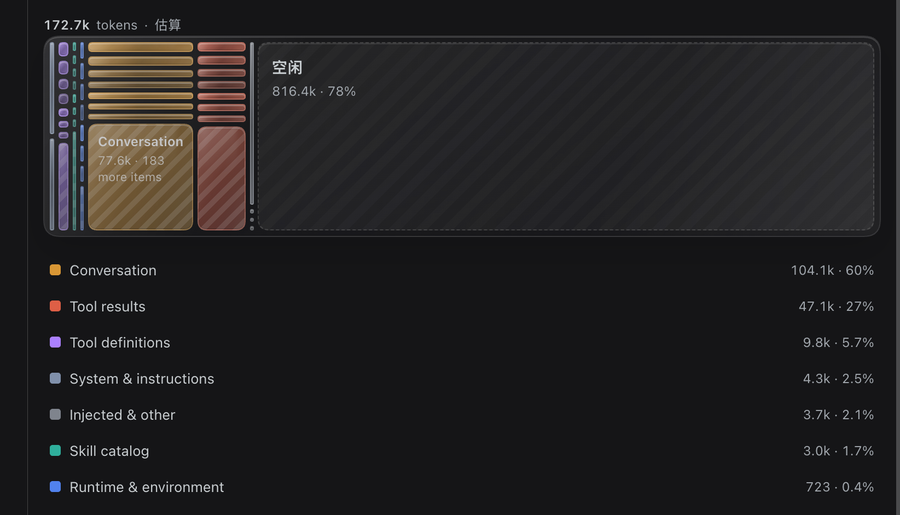
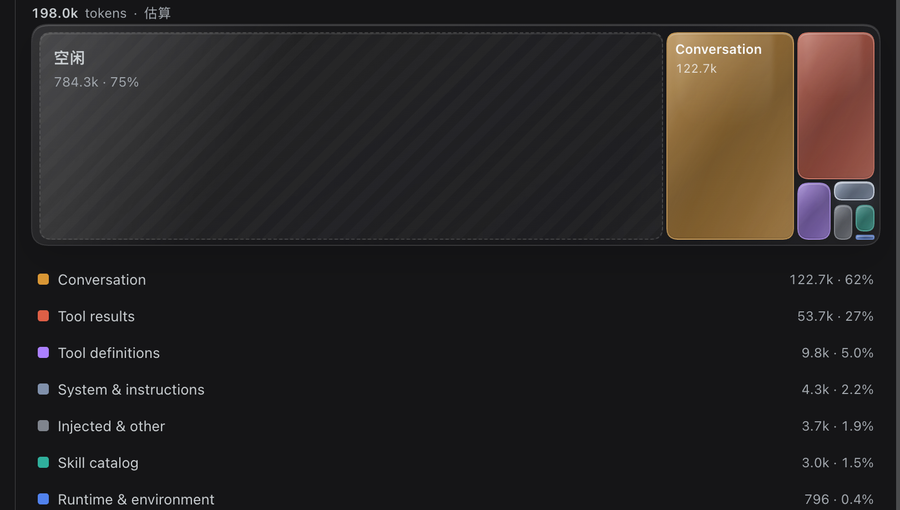
feat: render categories as a squarified treemap

diff --git a/client.js b/client.js
@@ -4,7 +4,7 @@ window.__ModuleLoader__.load({
     const React = require('react');
 
     const h = React.createElement;
-    const { Fragment, useCallback, useEffect, useMemo, useRef, useState } = React;
+    const { Fragment, useCallback, useEffect, useLayoutEffect, useMemo, useRef, useState } = React;
 
     const NS = 'context-mekko';
     const PACKAGE = 'dsh-context-mekko';
@@ -145,27 +145,26 @@ window.__ModuleLoader__.load({
 .cmk-ring{flex:none;display:inline-flex;align-items:center;justify-content:center}
 .cmk-panelBody{flex:1;min-height:0;overflow:auto;padding:12px 14px 22px}
 .cmk-foot{flex:none;padding:9px 16px 11px;border-top:1px solid var(--dsw-alias-border-l3,rgba(128,128,128,.16));color:var(--dsw-alias-label-tertiary,#888);font-size:11px;line-height:16px}
-.cmk-chart{position:relative;isolation:isolate;display:flex;gap:4px;height:184px;width:100%;align-items:stretch;padding:5px;border-radius:18px;overflow:hidden;background:linear-gradient(145deg,color-mix(in srgb,var(--dsw-alias-bg-base,#fff) 36%,transparent),color-mix(in srgb,var(--dsw-alias-bg-base,#fff) 12%,transparent)),rgba(128,128,128,.045);border:1px solid rgba(255,255,255,.13);box-shadow:inset 0 1px 0 rgba(255,255,255,.16),inset 0 -1px 0 rgba(0,0,0,.08),0 12px 30px rgba(0,0,0,.12);backdrop-filter:blur(22px) saturate(150%);-webkit-backdrop-filter:blur(22px) saturate(150%)}
+.cmk-chart{position:relative;isolation:isolate;display:block;height:200px;width:100%;padding:5px;border-radius:18px;overflow:hidden;background:linear-gradient(145deg,color-mix(in srgb,var(--dsw-alias-bg-base,#fff) 36%,transparent),color-mix(in srgb,var(--dsw-alias-bg-base,#fff) 12%,transparent)),rgba(128,128,128,.045);border:1px solid rgba(255,255,255,.13);box-shadow:inset 0 1px 0 rgba(255,255,255,.16),inset 0 -1px 0 rgba(0,0,0,.08),0 12px 30px rgba(0,0,0,.12);backdrop-filter:blur(22px) saturate(150%);-webkit-backdrop-filter:blur(22px) saturate(150%)}
 .cmk-chart::before{content:"";position:absolute;inset:0;z-index:0;pointer-events:none;background:linear-gradient(120deg,rgba(255,255,255,.12),transparent 28%,transparent 68%,rgba(255,255,255,.045))}
-.cmk-col{position:relative;z-index:1;display:flex;flex-direction:column;gap:4px;min-width:3px;overflow:visible;border-radius:11px;background:transparent;transition:flex-grow .48s cubic-bezier(.22,1,.36,1)}
-.cmk-cell{--cmk-cell-color:#8a8f98;container-type:size;flex:1 1 0;min-height:2px;padding:0;margin:0;border:1px solid color-mix(in srgb,var(--cmk-cell-color) 30%,rgba(255,255,255,.26));border-radius:10px;cursor:pointer;position:relative;overflow:hidden;isolation:isolate;background:linear-gradient(135deg,color-mix(in srgb,var(--cmk-cell-color) 68%,rgba(255,255,255,.18)) 0%,color-mix(in srgb,var(--cmk-cell-color) 46%,transparent) 52%,color-mix(in srgb,var(--cmk-cell-color) 58%,transparent) 100%);backdrop-filter:blur(14px) saturate(170%);-webkit-backdrop-filter:blur(14px) saturate(170%);box-shadow:inset 0 1px 0 rgba(255,255,255,.28),inset 0 -1px 0 rgba(0,0,0,.10),0 3px 10px rgba(0,0,0,.10);transition:flex-grow .48s cubic-bezier(.22,1,.36,1),transform .18s ease,filter .18s ease,box-shadow .18s ease,opacity .18s ease}
-.cmk-cell::before{content:"";position:absolute;inset:0;z-index:0;border-radius:inherit;pointer-events:none;background:linear-gradient(112deg,rgba(255,255,255,.38) 0%,rgba(255,255,255,.09) 22%,transparent 46%,rgba(255,255,255,.04) 72%,rgba(255,255,255,.14) 100%);opacity:.72;mix-blend-mode:screen}
-.cmk-cell::after{content:"";position:absolute;left:7%;right:16%;top:0;height:46%;border-radius:0 0 50% 50%;pointer-events:none;background:linear-gradient(180deg,rgba(255,255,255,.22),transparent);filter:blur(2px);opacity:.55}
-.cmk-cell:hover{filter:brightness(1.10) saturate(1.12);transform:translateY(-1px);outline:1px solid rgba(255,255,255,.38);outline-offset:-1px;z-index:2;box-shadow:inset 0 1px 0 rgba(255,255,255,.40),inset 0 -1px 0 rgba(0,0,0,.10),0 6px 16px color-mix(in srgb,var(--cmk-cell-color) 24%,rgba(0,0,0,.16))}
-.cmk-cell:active{transform:translateY(0) scale(.995)}
-.cmk-cell:focus-visible{outline:2px solid var(--dsw-focus-ring-color,#4c8bf5);outline-offset:-2px;z-index:3}
-.cmk-cellOther{opacity:.76;background-image:repeating-linear-gradient(135deg,rgba(255,255,255,.16) 0 5px,transparent 5px 11px),linear-gradient(135deg,color-mix(in srgb,var(--cmk-cell-color) 58%,rgba(255,255,255,.16)) 0%,color-mix(in srgb,var(--cmk-cell-color) 38%,transparent) 100%)}
-.cmk-cellLabel{position:absolute;inset:7px 8px;z-index:2;display:none;flex-direction:column;align-items:flex-start;gap:2px;pointer-events:none;text-align:left;color:var(--dsw-alias-label-primary,#111);font:inherit}
-.cmk-cellLabelTitle{max-width:100%;overflow:hidden;text-overflow:ellipsis;white-space:nowrap;font-size:12px;line-height:16px;font-weight:600}
-.cmk-cellLabelMeta{font-size:11px;line-height:15px;opacity:.78;font-variant-numeric:tabular-nums}
-@container (min-width:92px) and (min-height:46px){.cmk-cellLabel{display:flex}}
-.cmk-free{container-type:size;flex:1 1 0;min-width:3px;min-height:0;position:relative;overflow:hidden;border:1px dashed rgba(128,128,128,.38);border-radius:12px;background:repeating-linear-gradient(135deg,rgba(128,128,128,.055) 0 8px,transparent 8px 17px),linear-gradient(145deg,rgba(255,255,255,.045),rgba(128,128,128,.025));box-shadow:inset 0 1px 0 rgba(255,255,255,.10);backdrop-filter:blur(12px) saturate(120%);-webkit-backdrop-filter:blur(12px) saturate(120%);color:var(--dsw-alias-label-tertiary,#888);cursor:default;transition:flex-grow .48s cubic-bezier(.22,1,.36,1)}
+.cmk-tile{--cmk-tile-color:#8a8f98;container-type:size;position:absolute;z-index:1;padding:0;margin:0;border:1px solid color-mix(in srgb,var(--cmk-tile-color) 30%,rgba(255,255,255,.26));border-radius:12px;cursor:pointer;overflow:hidden;isolation:isolate;background:linear-gradient(135deg,color-mix(in srgb,var(--cmk-tile-color) 68%,rgba(255,255,255,.18)) 0%,color-mix(in srgb,var(--cmk-tile-color) 46%,transparent) 52%,color-mix(in srgb,var(--cmk-tile-color) 58%,transparent) 100%);backdrop-filter:blur(14px) saturate(170%);-webkit-backdrop-filter:blur(14px) saturate(170%);box-shadow:inset 0 1px 0 rgba(255,255,255,.28),inset 0 -1px 0 rgba(0,0,0,.10),0 3px 10px rgba(0,0,0,.10);transition:left .5s cubic-bezier(.22,1,.36,1),top .5s cubic-bezier(.22,1,.36,1),width .5s cubic-bezier(.22,1,.36,1),height .5s cubic-bezier(.22,1,.36,1),transform .18s ease,filter .18s ease,box-shadow .18s ease}
+.cmk-tile::before{content:"";position:absolute;inset:0;z-index:0;border-radius:inherit;pointer-events:none;background:linear-gradient(112deg,rgba(255,255,255,.38) 0%,rgba(255,255,255,.09) 22%,transparent 46%,rgba(255,255,255,.04) 72%,rgba(255,255,255,.14) 100%);opacity:.72;mix-blend-mode:screen}
+.cmk-tile::after{content:"";position:absolute;left:7%;right:16%;top:0;height:46%;border-radius:0 0 50% 50%;pointer-events:none;background:linear-gradient(180deg,rgba(255,255,255,.22),transparent);filter:blur(2px);opacity:.55}
+.cmk-tile:hover{filter:brightness(1.10) saturate(1.12);transform:translateY(-1px);outline:1px solid rgba(255,255,255,.38);outline-offset:-1px;z-index:2;box-shadow:inset 0 1px 0 rgba(255,255,255,.40),inset 0 -1px 0 rgba(0,0,0,.10),0 6px 16px color-mix(in srgb,var(--cmk-tile-color) 24%,rgba(0,0,0,.16))}
+.cmk-tile:active{transform:translateY(0) scale(.995)}
+.cmk-tile:focus-visible{outline:2px solid var(--dsw-focus-ring-color,#4c8bf5);outline-offset:-2px;z-index:3}
+.cmk-tileLabel{position:absolute;inset:6px 7px;z-index:2;display:none;flex-direction:column;align-items:flex-start;gap:2px;pointer-events:none;text-align:left;color:var(--dsw-alias-label-primary,#111);font:inherit}
+.cmk-tileLabelTitle{max-width:100%;overflow:hidden;text-overflow:ellipsis;white-space:nowrap;font-size:12px;line-height:16px;font-weight:600}
+.cmk-tileLabelMeta{display:none;font-size:11px;line-height:15px;opacity:.78;font-variant-numeric:tabular-nums}
+@container (min-width:72px) and (min-height:30px){.cmk-tileLabel{display:flex}}
+@container (min-width:72px) and (min-height:48px){.cmk-tileLabelMeta{display:block}}
+.cmk-free{container-type:size;position:absolute;z-index:1;overflow:hidden;border:1px dashed rgba(128,128,128,.38);border-radius:12px;background:repeating-linear-gradient(135deg,rgba(128,128,128,.055) 0 8px,transparent 8px 17px),linear-gradient(145deg,rgba(255,255,255,.045),rgba(128,128,128,.025));box-shadow:inset 0 1px 0 rgba(255,255,255,.10);backdrop-filter:blur(12px) saturate(120%);-webkit-backdrop-filter:blur(12px) saturate(120%);color:var(--dsw-alias-label-tertiary,#888);cursor:default;transition:left .5s cubic-bezier(.22,1,.36,1),top .5s cubic-bezier(.22,1,.36,1),width .5s cubic-bezier(.22,1,.36,1),height .5s cubic-bezier(.22,1,.36,1)}
 .cmk-freeLabel{position:absolute;inset:12px;display:none;flex-direction:column;align-items:flex-start;gap:3px;pointer-events:none;text-align:left}
 .cmk-freeTitle{font-size:14px;line-height:20px;font-weight:600;color:var(--dsw-alias-label-secondary,#555)}
 .cmk-freeMeta{font-size:12px;line-height:17px;font-variant-numeric:tabular-nums;color:var(--dsw-alias-label-tertiary,#888)}
 @container (min-width:100px) and (min-height:64px){.cmk-freeLabel{display:flex}}
-@media (prefers-reduced-motion:reduce){.cmk-col,.cmk-cell,.cmk-free{transition:none}.cmk-cell:hover{transform:none}}
-@supports not ((backdrop-filter:blur(1px)) or (-webkit-backdrop-filter:blur(1px))){.cmk-chart{background:var(--dsw-alias-interactive-bg-hover,rgba(128,128,128,.10))}.cmk-cell{background:color-mix(in srgb,var(--cmk-cell-color) 72%,var(--dsw-alias-bg-base,#fff))}}
+@media (prefers-reduced-motion:reduce){.cmk-tile,.cmk-free{transition:none}.cmk-tile:hover{transform:none}}
+@supports not ((backdrop-filter:blur(1px)) or (-webkit-backdrop-filter:blur(1px))){.cmk-chart{background:var(--dsw-alias-interactive-bg-hover,rgba(128,128,128,.10))}.cmk-tile{background:color-mix(in srgb,var(--cmk-tile-color) 72%,var(--dsw-alias-bg-base,#fff))}}
 .cmk-legend{display:flex;flex-direction:column;gap:1px;margin-top:14px}
 .cmk-legendRow{display:flex;align-items:center;gap:8px;width:100%;padding:6px 6px;border:0;border-radius:7px;background:transparent;color:inherit;font:inherit;text-align:left;cursor:pointer}
 .cmk-legendRow:hover{background:var(--dsw-alias-interactive-bg-hover,rgba(128,128,128,.08))}
@@ -407,113 +406,188 @@ window.__ModuleLoader__.load({
       );
     }
 
-    function pickLeaves(category) {
-      const sorted = [...category.children].sort((left, right) => right.tokens - left.tokens);
-      const limit = 8;
-      if (sorted.length <= limit) return sorted;
-      const head = sorted.slice(0, limit - 1);
-      const rest = sorted.slice(limit - 1);
-      const tokens = rest.reduce((total, child) => total + child.tokens, 0);
-      return [
-        ...head,
-        {
-          id: `${category.key}:other`,
-          label: 'other',
-          tokens,
-          other: true,
-          count: rest.length,
-        },
-      ];
+    const CHART_PAD = 5;
+    const TILE_GAP = 3;
+
+    function worstAspect(areas, length) {
+      if (areas.length === 0 || length <= 0) return Infinity;
+      let sum = 0;
+      let max = 0;
+      let min = Infinity;
+      for (const area of areas) {
+        sum += area;
+        max = Math.max(max, area);
+        min = Math.min(min, area);
+      }
+      if (sum <= 0 || min <= 0) return Infinity;
+      return Math.max((length * length * max) / (sum * sum), (sum * sum) / (length * length * min));
     }
 
-    function MekkoCell({ leaf, category, color, index, onSelectCategory, onOpenBlock, t }) {
-      const label = leaf.other ? translate(t, `category.${category.key}`) : leaf.label;
-      const meta = leaf.other
-        ? `${formatTokens(leaf.tokens)} · ${translate(t, 'detail.other', { count: leaf.count })}`
-        : formatTokens(leaf.tokens);
+    function layoutTreemap(items, width, height) {
+      const entries = items
+        .filter((item) => item.tokens > 0)
+        .map((item) => ({ item, area: item.tokens }))
+        .sort((left, right) => right.area - left.area);
+      const total = entries.reduce((sum, entry) => sum + entry.area, 0);
+      if (total <= 0 || width <= 0 || height <= 0) return [];
+      const scale = (width * height) / total;
+      const rects = [];
+      let x = 0;
+      let y = 0;
+      let w = width;
+      let h = height;
+      let index = 0;
+
+      while (index < entries.length) {
+        const vertical = w >= h;
+        const length = vertical ? h : w;
+        const row = [];
+        let best = Infinity;
+        let next = index;
+        while (next < entries.length) {
+          const candidate = row.concat(entries[next].area * scale);
+          const ratio = worstAspect(candidate, length);
+          if (row.length === 0 || ratio <= best) {
+            row.push(entries[next].area * scale);
+            best = ratio;
+            next += 1;
+          } else {
+            break;
+          }
+        }
+        const rowArea = row.reduce((sum, area) => sum + area, 0);
+        const thickness = rowArea / Math.max(length, 1);
+        let offset = 0;
+        for (let cursor = index; cursor < next; cursor += 1) {
+          const area = row[cursor - index];
+          if (vertical) {
+            const cellHeight = area / Math.max(thickness, 1e-6);
+            rects.push({
+              item: entries[cursor].item,
+              x,
+              y: y + offset,
+              width: thickness,
+              height: cellHeight,
+            });
+            offset += cellHeight;
+          } else {
+            const cellWidth = area / Math.max(thickness, 1e-6);
+            rects.push({
+              item: entries[cursor].item,
+              x: x + offset,
+              y,
+              width: cellWidth,
+              height: thickness,
+            });
+            offset += cellWidth;
+          }
+        }
+        if (vertical) {
+          x += thickness;
+          w = Math.max(w - thickness, 0);
+        } else {
+          y += thickness;
+          h = Math.max(h - thickness, 0);
+        }
+        index = next;
+      }
+      return rects;
+    }
+
+    function useElementSize(ref) {
+      const [size, setSize] = useState({ width: 0, height: 0 });
+      useLayoutEffect(() => {
+        const element = ref.current;
+        if (!element) return undefined;
+        const measure = () => {
+          const rect = element.getBoundingClientRect();
+          const next = {
+            width: Math.max(rect.width - CHART_PAD * 2, 0),
+            height: Math.max(rect.height - CHART_PAD * 2, 0),
+          };
+          setSize((previous) =>
+            previous.width === next.width && previous.height === next.height ? previous : next,
+          );
+        };
+        measure();
+        if (typeof ResizeObserver === 'undefined') return undefined;
+        const observer = new ResizeObserver(measure);
+        observer.observe(element);
+        return () => observer.disconnect();
+      }, [ref]);
+      return size;
+    }
+
+    function tileStyle(rect) {
+      return {
+        left: `${rect.x + CHART_PAD + TILE_GAP / 2}px`,
+        top: `${rect.y + CHART_PAD + TILE_GAP / 2}px`,
+        width: `${Math.max(rect.width - TILE_GAP, 1)}px`,
+        height: `${Math.max(rect.height - TILE_GAP, 1)}px`,
+      };
+    }
+
+    function MekkoTile({ rect, item, onSelectCategory, t }) {
+      const category = item.category;
+      const color = CATEGORY_COLORS[category.key] ?? '#8a8f98';
+      const label = translate(t, `category.${category.key}`);
       return h(
         'button',
         {
           type: 'button',
-          className: leaf.other ? 'cmk-cell cmk-cellOther' : 'cmk-cell',
-          style: {
-            flexGrow: Math.max(leaf.tokens, 1),
-            flexBasis: 0,
-            '--cmk-cell-color': leaf.other ? color : shade(color, index),
-          },
-          title: leaf.other
-            ? translate(t, 'detail.other', { count: leaf.count })
-            : `${leaf.label} · ${formatTokens(leaf.tokens)} tokens`,
-          'aria-label': leaf.other
-            ? translate(t, 'detail.other', { count: leaf.count })
-            : `${leaf.label}, ${formatTokens(leaf.tokens)} tokens`,
-          onClick: () => {
-            if (leaf.other) onSelectCategory(category.key);
-            else onOpenBlock(leaf, category);
-          },
+          className: 'cmk-tile',
+          style: { ...tileStyle(rect), '--cmk-tile-color': color },
+          title: `${label} · ${formatTokens(category.tokens)} tokens`,
+          'aria-label': `${label}, ${formatTokens(category.tokens)} tokens`,
+          onClick: () => onSelectCategory(category.key),
         },
         h(
           'span',
-          { className: 'cmk-cellLabel' },
-          h('span', { className: 'cmk-cellLabelTitle' }, label),
-          h('span', { className: 'cmk-cellLabelMeta' }, meta),
+          { className: 'cmk-tileLabel' },
+          h('span', { className: 'cmk-tileLabelTitle' }, label),
+          h('span', { className: 'cmk-tileLabelMeta' }, formatTokens(category.tokens)),
         ),
       );
     }
 
-    function FreeSpace({ tokens, windowTokens, t }) {
+    function FreeTile({ rect, tokens, windowTokens, t }) {
       const percent = windowTokens > 0 ? formatPercent(tokens / windowTokens) : '';
-      const title = `${translate(t, 'free')} · ${formatTokens(tokens)}${percent ? ` · ${percent}` : ''}`;
+      const label = translate(t, 'free');
       return h(
         'div',
         {
           className: 'cmk-free',
-          style: { flexGrow: Math.max(tokens, 1), flexBasis: 0, minWidth: 3 },
+          style: tileStyle(rect),
           role: 'img',
-          'aria-label': title,
-          title,
+          'aria-label': `${label} · ${formatTokens(tokens)}${percent ? ` · ${percent}` : ''}`,
+          title: `${label} · ${formatTokens(tokens)}${percent ? ` · ${percent}` : ''}`,
         },
         h(
           'span',
           { className: 'cmk-freeLabel' },
-          h('span', { className: 'cmk-freeTitle' }, translate(t, 'free')),
+          h('span', { className: 'cmk-freeTitle' }, label),
           h('span', { className: 'cmk-freeMeta' }, `${formatTokens(tokens)}${percent ? ` · ${percent}` : ''}`),
         ),
       );
     }
 
-    function Mekko({ categories, layoutScale = 1, freeTokens = 0, windowTokens = 0, onSelectCategory, onOpenBlock, t }) {
-      const total = categories.reduce((sum, category) => sum + category.tokens, 0);
-      if (total <= 0) return h('div', { className: 'cmk-empty' }, '—');
+    function Mekko({ categories, layoutScale = 1, freeTokens = 0, windowTokens = 0, onSelectCategory, t }) {
+      const chartRef = useRef(null);
+      const size = useElementSize(chartRef);
+      const estimatedTotal = categories.reduce((sum, category) => sum + category.tokens, 0);
+      if (estimatedTotal <= 0) return h('div', { className: 'cmk-empty' }, '—');
+      const items = categories
+        .map((category) => ({ key: category.key, tokens: category.tokens * layoutScale, category }))
+        .concat(freeTokens > 0 ? [{ key: 'free', tokens: freeTokens, free: true }] : []);
+      const rects = layoutTreemap(items, size.width, size.height);
       return h(
         'div',
-        { className: 'cmk-chart' },
-        categories.map((category) => {
-          const color = CATEGORY_COLORS[category.key] ?? '#8a8f98';
-          const leaves = pickLeaves(category);
-          return h(
-            'div',
-            {
-              key: category.key,
-              className: 'cmk-col',
-              style: { flexGrow: Math.max(category.tokens * layoutScale, 1), flexBasis: 0, minWidth: 3 },
-              title: `${translate(t, `category.${category.key}`)} · ${formatTokens(category.tokens)}`,
-            },
-            leaves.map((leaf, index) =>
-              h(MekkoCell, {
-                key: leaf.id,
-                leaf,
-                category,
-                color,
-                index,
-                onSelectCategory,
-                onOpenBlock,
-                t,
-              }),
-            ),
-          );
-        }),
-        freeTokens > 0 ? h(FreeSpace, { key: 'free', tokens: freeTokens, windowTokens, t }) : null,
+        { ref: chartRef, className: 'cmk-chart' },
+        rects.map(({ item, ...rect }) =>
+          item.free
+            ? h(FreeTile, { key: item.key, rect, tokens: item.tokens, windowTokens, t })
+            : h(MekkoTile, { key: item.key, rect, item, onSelectCategory, t }),
+        ),
       );
     }
 
@@ -573,7 +647,7 @@ window.__ModuleLoader__.load({
           h('span', null, '·'),
           h('span', null, translate(t, 'estimated')),
         ),
-        h(Mekko, { categories, layoutScale, freeTokens, windowTokens, onSelectCategory, onOpenBlock, t }),
+        h(Mekko, { categories, layoutScale, freeTokens, windowTokens, onSelectCategory, t }),
         h(Legend, { categories, total: data.totalTokens, onSelectCategory, t }),
         (() => {
           const top = categories

diff --git a/README.md b/README.md
@@ -3,9 +3,9 @@
 ![Context Mekko tab](assets/context-mekko.png)
 
 A DSH plugin that adds a **Context** tag to the conversation header and opens a
-native **right Sidebar tab** with a live **Marimekko** breakdown of the
-model-visible context window. Click any block to inspect the exact content that
-was sent to the model.
+native **right Sidebar tab** with a live **squarified treemap** of the
+model-visible context window. Click a category tile to open its contributions
+and inspect the exact content that was sent to the model.
 
 - Header entry: `Context` pill with the provider-reported occupancy percentage.
 - Native tab: the chart lives in a normal right Sidebar tab, with the panel's
@@ -30,11 +30,12 @@ exact message, tool output, tool schema, runtime section, or skill entry:
 
 The chart follows the current retained model-visible surface, not the raw
 session history. **The whole chart area represents the full context window**:
-each column is a category, blocks inside a column are individual contributions,
-and the neutral **Free** block is the remaining space. Used area and Free follow
-provider-reported pressure when available (with category proportions taken from
-the estimated breakdown); otherwise they fall back to the estimated total.
-Larger blocks show their own labels and token counts.
+every category is one tile, laid out with a squarified treemap so tile area is
+proportional to its token share, and the neutral **Free** tile is the remaining
+space. Used area and Free follow provider-reported pressure when available
+(with category proportions taken from the estimated breakdown); otherwise they
+fall back to the estimated total. Larger tiles show their own labels and token
+counts; smaller tiles keep their tooltip and legend entry.
 
 Categories:
 
